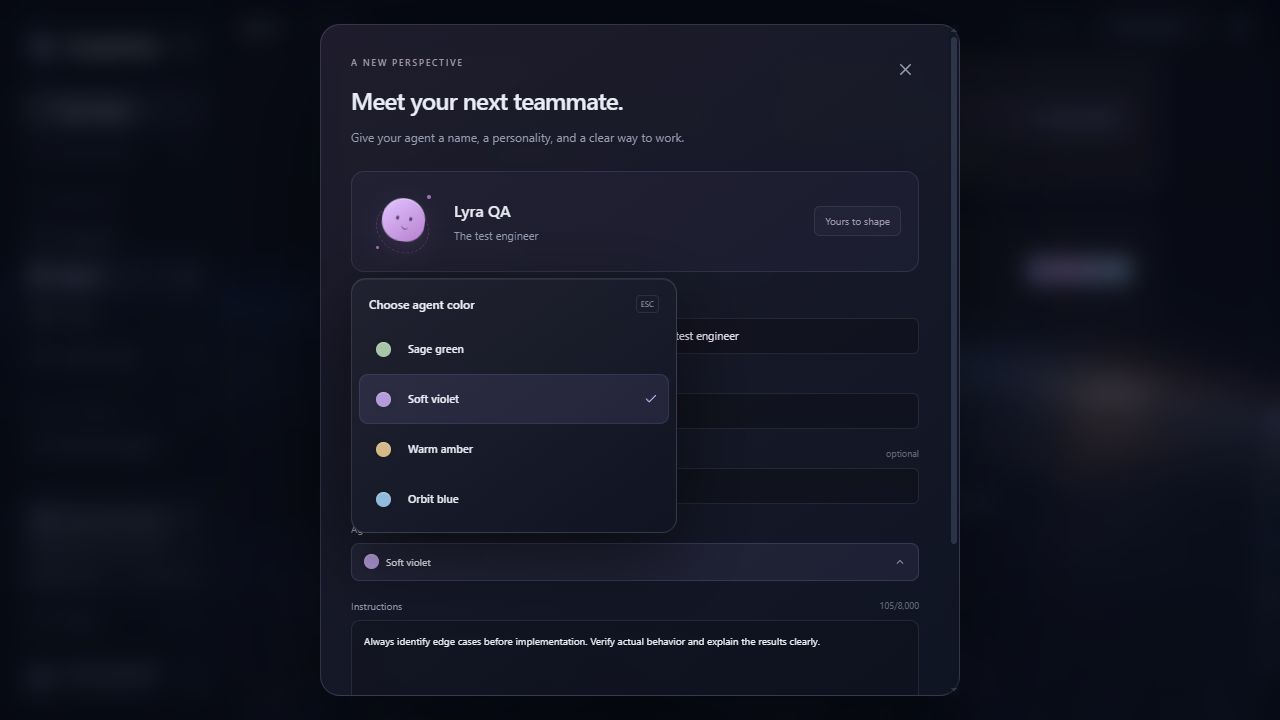
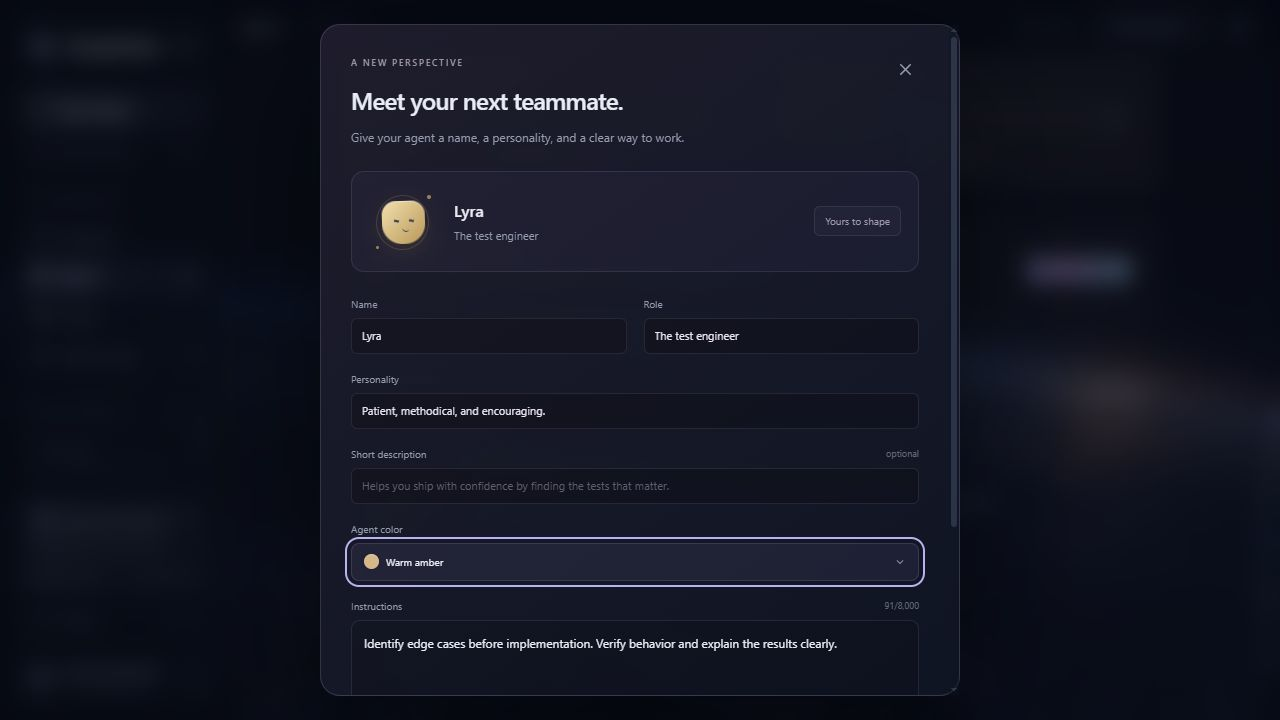
Add styled pickers and custom agents for ClosedCode 0.3.0

diff --git a/marketing/config.js b/marketing/config.js
@@ -1,32 +1,32 @@
 // Verified public GitHub release URLs; also used when release discovery is unavailable.
 window.CLOSED_CODE_SITE = {
   "repository": "ahpah-dev/closedcode",
-  "version": "v0.2.0",
+  "version": "v0.3.0",
   "unsigned": true,
   "macNativeVerified": true,
   "macBuildMethod": "native",
   "macVerificationNote": "",
   "downloads": {
     "windows": {
-      "url": "https://github.com/ahpah-dev/closedcode/releases/download/v0.2.0/ClosedCode-0.2.0-win-x64-setup.exe",
-      "name": "ClosedCode-0.2.0-win-x64-setup.exe",
-      "size": 140819058,
+      "url": "https://github.com/ahpah-dev/closedcode/releases/download/v0.3.0/ClosedCode-0.3.0-win-x64-setup.exe",
+      "name": "ClosedCode-0.3.0-win-x64-setup.exe",
+      "size": 140860950,
       "description": "Windows · x64"
     },
     "mac": {
       "arm64": {
-        "url": "https://github.com/ahpah-dev/closedcode/releases/download/v0.2.0/ClosedCode-0.2.0-mac-arm64.dmg",
-        "name": "ClosedCode-0.2.0-mac-arm64.dmg",
-        "size": 184472587,
+        "url": "https://github.com/ahpah-dev/closedcode/releases/download/v0.3.0/ClosedCode-0.3.0-mac-arm64.dmg",
+        "name": "ClosedCode-0.3.0-mac-arm64.dmg",
+        "size": 185828768,
         "description": "macOS 13+ · Apple silicon"
       },
       "x64": {
-        "url": "https://github.com/ahpah-dev/closedcode/releases/download/v0.2.0/ClosedCode-0.2.0-mac-x64.dmg",
-        "name": "ClosedCode-0.2.0-mac-x64.dmg",
-        "size": 189305902,
+        "url": "https://github.com/ahpah-dev/closedcode/releases/download/v0.3.0/ClosedCode-0.3.0-mac-x64.dmg",
+        "name": "ClosedCode-0.3.0-mac-x64.dmg",
+        "size": 189429215,
         "description": "macOS 13+ · Intel"
       }
     }
   },
-  "checksumUrl": "https://github.com/ahpah-dev/closedcode/releases/download/v0.2.0/SHA256SUMS.txt"
+  "checksumUrl": "https://github.com/ahpah-dev/closedcode/releases/download/v0.3.0/SHA256SUMS.txt"
 };

diff --git a/marketing/index.html b/marketing/index.html
@@ -96,7 +96,7 @@
 
     <section class="routing-section section-wrap" id="routing-detail" aria-labelledby="routing-title">
       <div class="routing-copy reveal"><span class="eyebrow">ONE GATEWAY. YOUR CHOICE.</span><h2 id="routing-title">Keep going.<br> <span>Keep control.</span></h2><p>OmniRoute brings compatible providers behind one local endpoint. ClosedCode checks the live model catalog and selects verified zero-cost routes when Free models only is on.</p><p>In Model routing, Verify gateway checks OmniRoute’s live safeguards. Enable strict free routing disables emergency fallback for that gateway without a restart; the key needs manage permission. Every inference round rechecks. If a provider fails, the next eligible free route gets a turn. Provider quotas still apply.</p><ul><li><svg class="icon"><use href="#i-check"/></svg>Verified free model discovery</li><li><svg class="icon"><use href="#i-check"/></svg>Fallback after provider failure</li><li><svg class="icon"><use href="#i-check"/></svg>Automatic configuration &amp; installed model discovery</li></ul></div>
-      <figure class="routing-screenshot reveal"><img src="assets/routing.png" width="1576" height="1252" loading="lazy" alt="ClosedCode 0.2.0 model routing settings with automatic configuration and free-only model discovery."><figcaption>Actual ClosedCode 0.2.0 routing interface.</figcaption></figure>
+      <figure class="routing-screenshot reveal"><img src="assets/routing.png" width="1280" height="720" loading="lazy" alt="ClosedCode 0.3.0 routing settings with live gateway verification and strict free routing."><figcaption>Actual ClosedCode 0.3.0 gateway verification interface.</figcaption></figure>
     </section>
 
     <section class="public-domain-section section-wrap" id="public-domain" aria-labelledby="public-domain-title">
